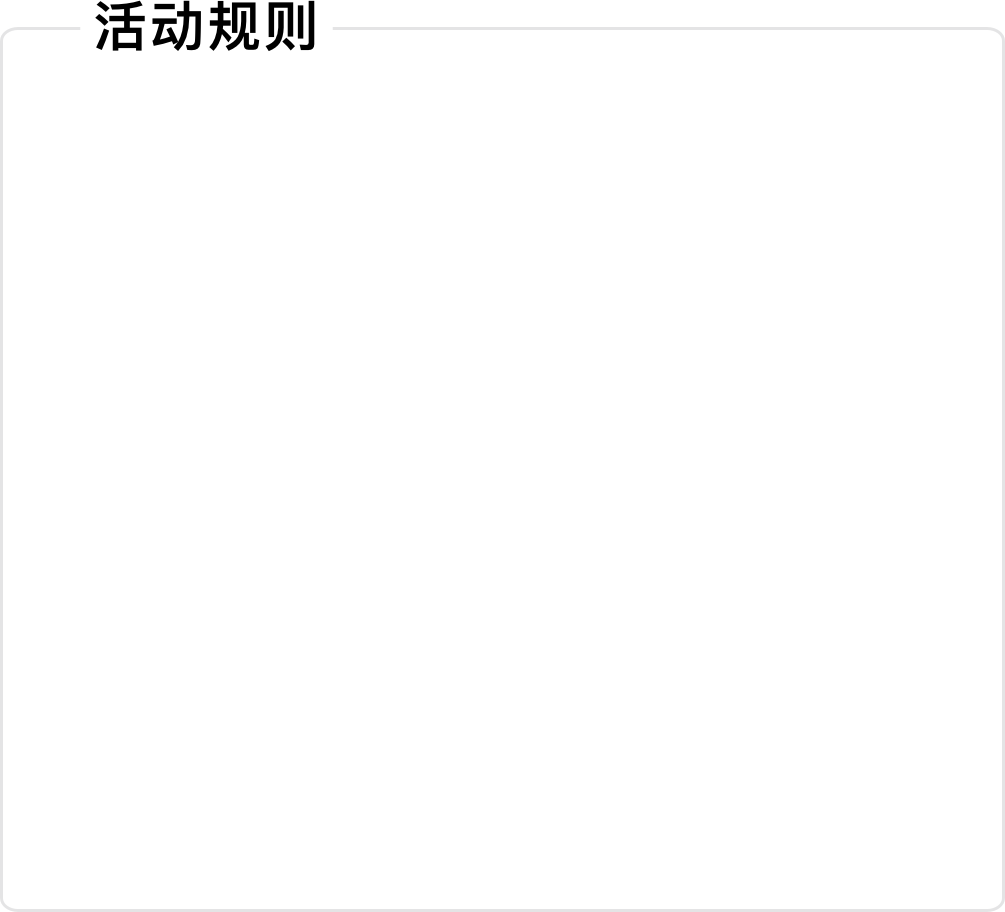
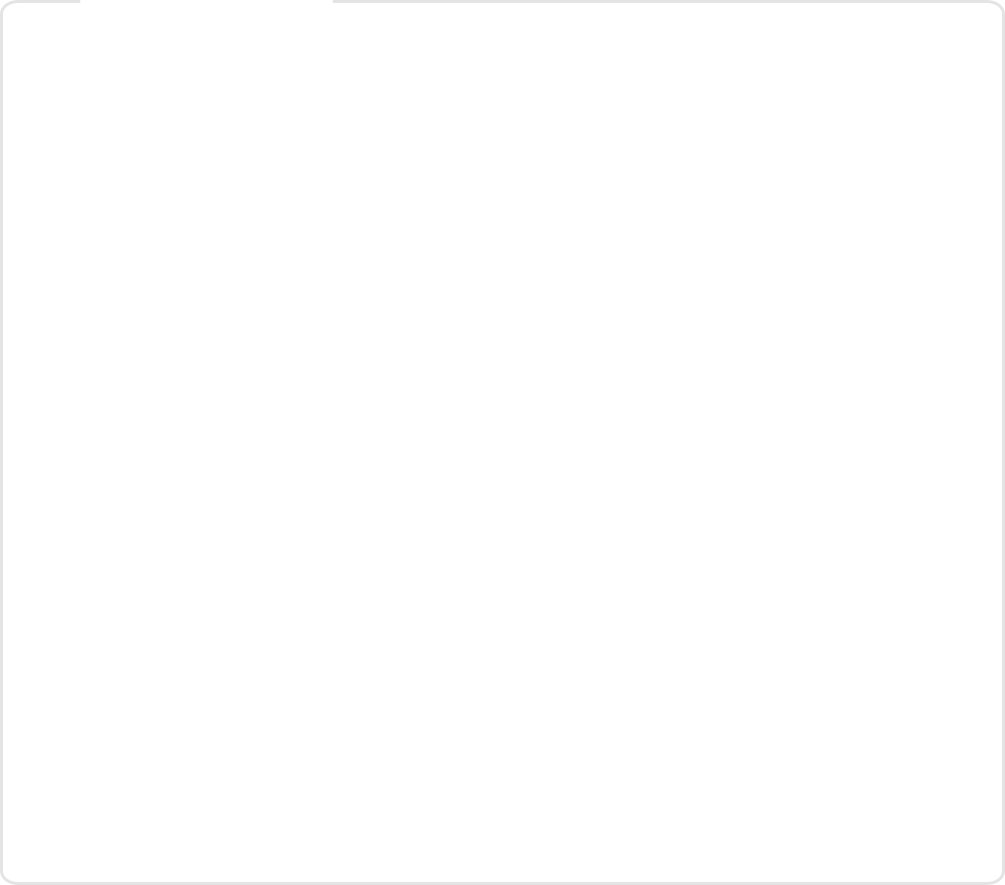
feat: font

Changed region(s): [[0.0925, 0.0, 1.0, 0.061], [0.0, 0.0, 0.0617, 0.0305]]

diff --git a/index.html b/index.html
@@ -15,36 +15,39 @@
         <link rel="stylesheet" href="css/main.css">
         <style type="text/css">
              body{ margin: 0; padding: 0}
-             .top{
-
-             }
-             .main{
+            .t1{
+                font-size: 23px;
+                color: #222222;
+                text-align: center;
+                line-height: 80%;
+            }
+            .t2{
+                color: crimson;
+            }
+            .main{
                 width: 375px;
                 height: 360px;
                 margin: 0 auto;
                 background: url("img/k.png") no-repeat;
                 background-size: 98% 98%;
              }
-            .t1{
-                font-size: larger;
-                color: #222222;
-                text-align: center;
-            }
-            .t2{
-                color: crimson;
-            }
             .rol1{
-                /*text-align: left;*/
                 float: left;
-                color: cornflowerblue;
+                margin-left: 9.5%;
+                font-family: "PingFang SC";
+                font-size: 18px;
+                width: 77px;
+                height: 25px;
+                margin-top: -10px;
             }
             .rol2{
                 float: left;
-                margin-top: 25px;
-                margin-left: 10px;
-                margin-right: 10px;
-                line-height: 200%;
-
+                margin-top: 5px;
+                margin-left: 20px;
+                margin-right: 20px;
+                line-height: 215%;
+                color: #767676;
+                font-size: 15px;
             }
         </style>
     </head>
@@ -54,6 +57,7 @@
         <p class="t1"><strong>限时活动!</strong></p>
         <p class="t1"><strong>充值78枚听听币送</strong><span class="t2"><strong>全球解锁码</strong></span></p>
         <div class="main">
+            <div class="rol1"><strong>活动规则</strong></div>
             <p class="rol2">
             1.在活动时间2018-02-10至2018-03-10内，用户一次性充值78枚听听币，即可免费获得全球解锁码一个。使用该码可对全球景点进行解锁。<br/>
             2.本活动所有用户均可参与，每个用户限成功抢购一次买送活动。<br/>
